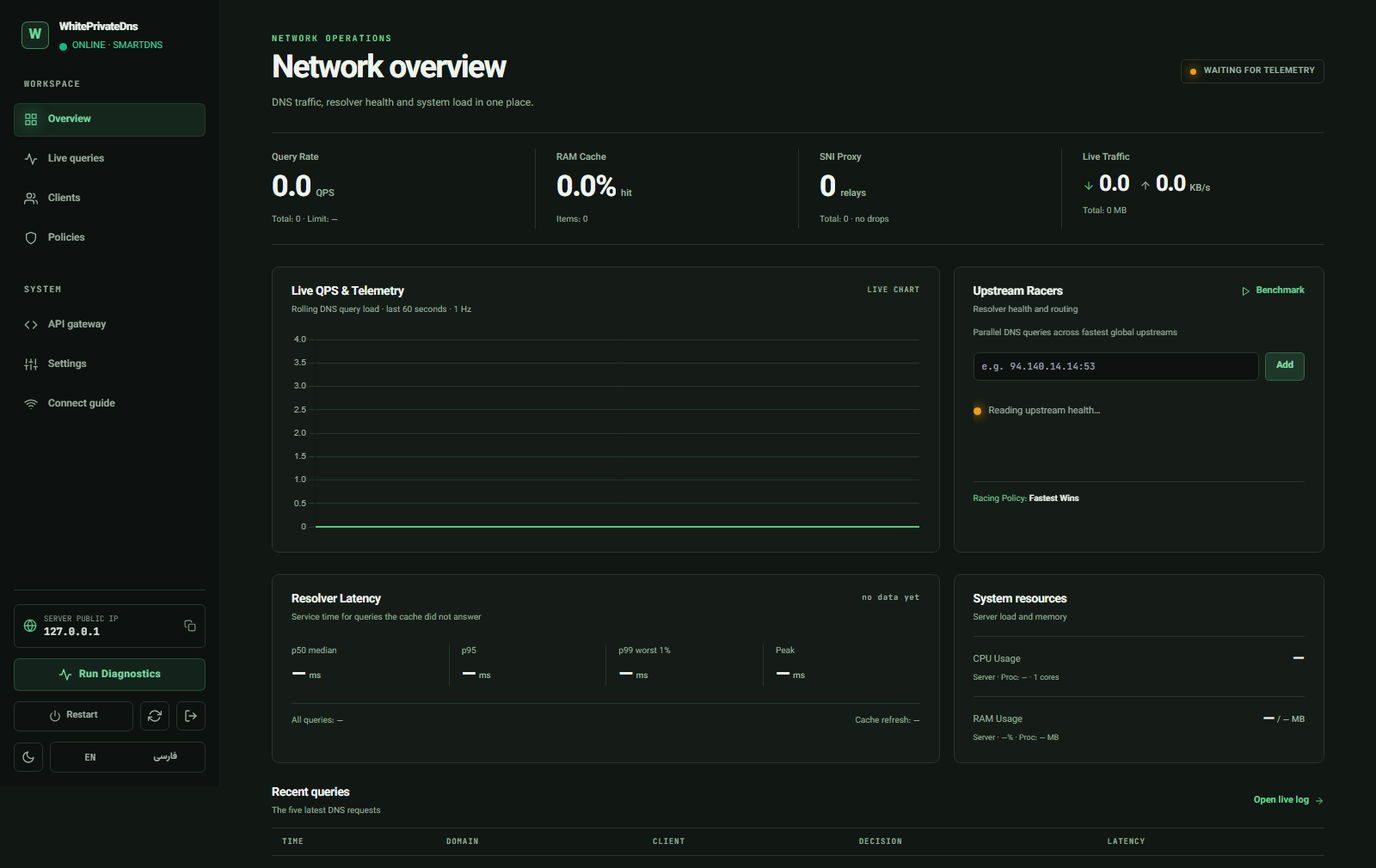
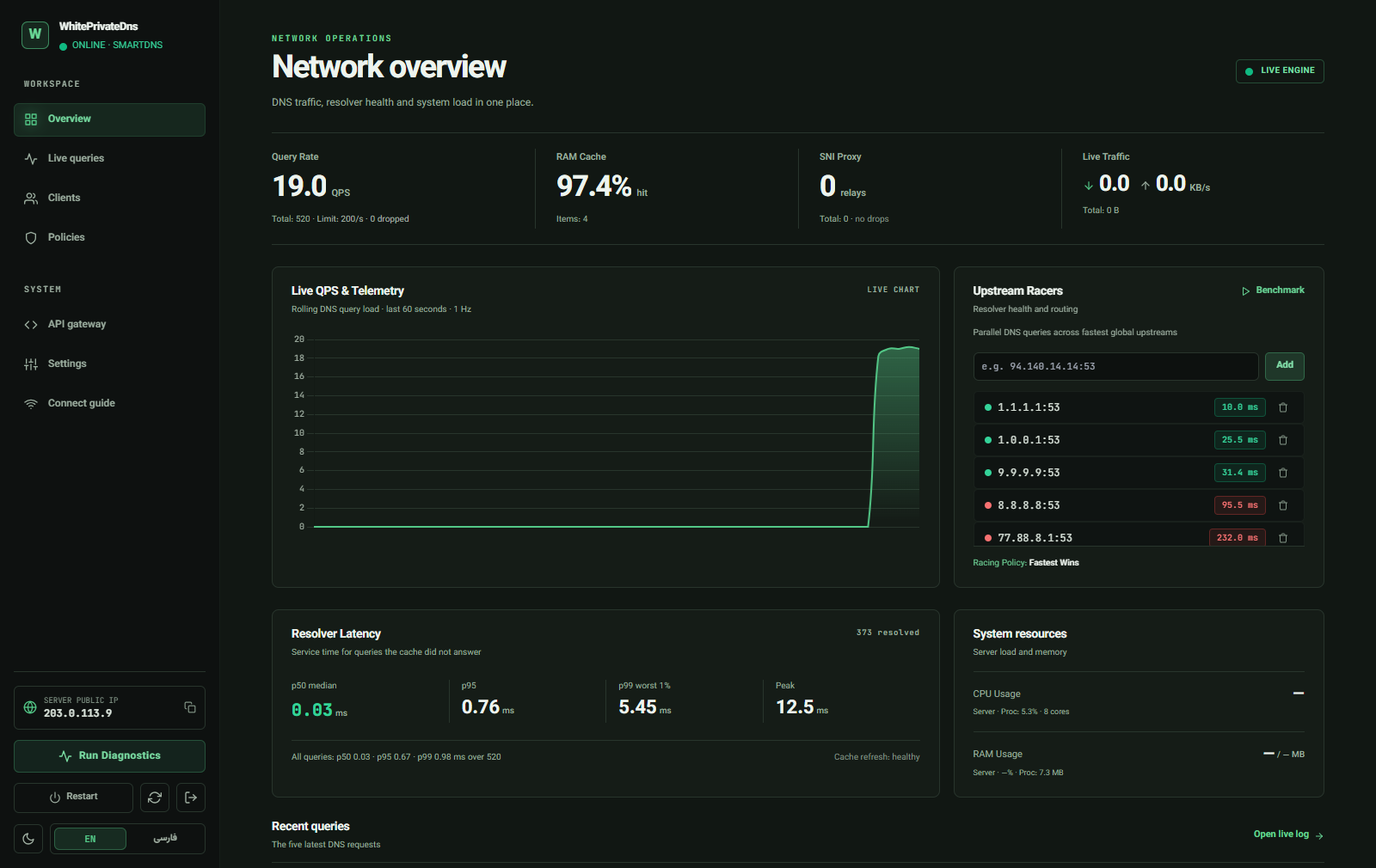
docs: fix README inaccuracies, refresh dashboard screenshot, document updates
- Screenshot: replace the empty "waiting for telemetry" image with the
  dashboard under load; add an update-banner screenshot.
- Fix TUI lockout entry ([12] -> [13]) in README, SECURITY.md and API.md.
- Cache is not an LRU (it evicts the entry nearest expiry).
- Drop claims that were stale or unverifiable (20/20 race packages, tracked
  .idea/ notes).
- Docker: document the unprivileged user and one-time chown.
- Relay: document the separate handshake cap and self-address refusal.
- Document dashboard update notifications (EN + FA), lockout /64 folding.
- Sync README.fa.md with README.md (badge, install tag, build flags, docs table).

diff --git a/README.fa.md b/README.fa.md
@@ -1,7 +1,7 @@
 # ⚡ WhitePrivateDns — گیتوی گیمینگ و اسمارت دیاناس مستقل
 
 <p align="center">
-  <img src="https://img.shields.io/badge/Release-v2.2.0-00f0ff?style=for-the-badge&logo=rocket" alt="نسخه v2.2.0">
+  <img src="https://img.shields.io/badge/Release-v2.2.0--beta.5-00f0ff?style=for-the-badge&logo=rocket" alt="نسخه v2.2.0-beta.5">
   <img src="https://img.shields.io/badge/Status-Production--Ready%20Beta-amber?style=for-the-badge" alt="وضعیت">
   <img src="https://img.shields.io/badge/Language-Go%201.26-00ADD8?style=for-the-badge&logo=go" alt="Go 1.26">
   <img src="https://img.shields.io/badge/Architecture-Single%20Binary%20(Zero%20CGO)-a855f7?style=for-the-badge" alt="تکباینری بدون CGO">
@@ -12,6 +12,8 @@
 
 <p align="center">
   <img src="docs/whiteprivatedns-dashboard-2026.png" alt="نمای کلی شبکهٔ WhitePrivateDns — تلهمتری زنده، وضعیت ریزالورها و نمودار QPS" width="880">
+  <br>
+  <sub>داشبورد زیر بار: نرخ کوئری، نسبت برخورد کش، تأخیر آپاستریمها و صدکهای ریزالور.</sub>
 </p>
 
 > [!NOTE]
@@ -41,6 +43,8 @@
 | ---: | --- |
 | **[README.md](README.md)** | مستندات اصلی پروژه به زبان انگلیسی. |
 | **[docs/SECURITY.md](docs/SECURITY.md)** | مدل تهدیدات امنیتی، جزئیات رمزنگاری، چکلیست سختسازی و تطبیق با RFCها. **پیش از اتصال سرور به اینترنت عمومی حتماً مطالعه شود.** |
+| **[docs/INSTALL.fa.md](docs/INSTALL.fa.md)** | نصب روی همهٔ سیستمعاملهای پشتیبانیشده (لینوکس، ویندوز، macOS). |
+| **[docs/UPDATE.fa.md](docs/UPDATE.fa.md)** | بهروزرسانی نصب موجود، از داشبورد یا خط فرمان. |
 | **[docs/API.md](docs/API.md)** | مرجع کامل REST API v1 (قدیمی) و v2، با نمونهکد برای Python، Node.js و cURL. |
 | **[docs/PRESET_CATALOG.md](docs/PRESET_CATALOG.md)** | کاتالوگ جامع بیش از ۱۷۱ بازی، پلتفرم و سرویس، تفکیکشده بر اساس دستهبندی. |
 | **[docs/CHANGELOG.md](docs/CHANGELOG.md)** | تاریخچهٔ کامل انتشار نسخهها و باگهای رفعشده. |
@@ -104,7 +108,7 @@ python3 scripts/network_probe.py --dns-ip 203.0.113.10 \
 
 ## 🚀 نصب سریع و راهاندازی
 
-اگر WhitePrivateDns از قبل روی سرور لینوکسی نصب است، از [راهنمای بهروزرسانی بدون حذف داده](docs/UPDATE.fa.md) استفاده کنید. دستورهای نصاب زیر برای نصب تازهاند.
+اگر WhitePrivateDns از قبل روی سرور لینوکسی نصب است، داشبورد هنگام انتشار نسخهٔ جدید به شما اطلاع میدهد و میتواند با یک کلیک آن را نصب کند — [راهنمای بهروزرسانی بدون حذف داده](docs/UPDATE.fa.md) را ببینید. دستورهای نصاب زیر برای نصب تازهاند.
 
 ### روش ۱: نصب سرویس لینوکس از نسخهٔ آماده، بدون Go یا کلون کردن پروژه
 
@@ -114,8 +118,8 @@ python3 scripts/network_probe.py --dns-ip 203.0.113.10 \
 
 ```bash
 apt-get update && apt-get install -y ca-certificates curl openssl
-curl -fsSLo /tmp/whiteprivatedns-install.sh https://raw.githubusercontent.com/DarkPoesidon/WhitePrivateDns/v2.2.0-beta.4/scripts/install.sh
-env WHITEPRIVATEDNS_REPOSITORY=DarkPoesidon/WhitePrivateDns WHITEPRIVATEDNS_REF=v2.2.0-beta.4 bash /tmp/whiteprivatedns-install.sh
+curl -fsSLo /tmp/whiteprivatedns-install.sh https://raw.githubusercontent.com/DarkPoesidon/WhitePrivateDns/v2.2.0-beta.5/scripts/install.sh
+env WHITEPRIVATEDNS_REPOSITORY=DarkPoesidon/WhitePrivateDns WHITEPRIVATEDNS_REF=v2.2.0-beta.5 bash /tmp/whiteprivatedns-install.sh
 ```
 
 </div>
@@ -142,7 +146,7 @@ env WHITEPRIVATEDNS_REPOSITORY=DarkPoesidon/WhitePrivateDns WHITEPRIVATEDNS_REF=
 git clone https://github.com/DarkPoesidon/WhitePrivateDns.git
 cd WhitePrivateDns
 mkdir -p bin
-go build -trimpath -o bin/whiteprivatedns ./cmd/whiteprivatedns
+go build -trimpath -ldflags="-s -w" -o bin/whiteprivatedns ./cmd/whiteprivatedns
 ./bin/whiteprivatedns -version
 ```
 
@@ -162,6 +166,16 @@ docker compose up -d
 </div>
 
 پیش از اولین اجرای کانتینر، دایرکتوریهای `data/` و `certs/` را ایجاد کنید. تمام دادههایی که باید در بازسازیهای کانتینر باقی بمانند درون پوشهٔ `data/` قرار دارند — یعنی `data.db`، `master.key` و `config.json` — و کانتینر به هر سه مسیر بهطور صریح ارجاع میدهد، بنابراین با آپدیت ایمیج هیچگاه اطلاعات پایگاه داده از بین نخواهد رفت. وجود فایل `config.json` اختیاری است: میتوانید یک فایل اولیه در آن قرار دهید یا اجازه دهید دیمن در اجرای اول پیکربندی پیشفرض را بسازد.
+
+کانتینر با کاربر بدون دسترسی ویژه (uid/gid برابر `10001`) و فقط با قابلیت `NET_BIND_SERVICE` اجرا میشود؛ همین قابلیت اجازهٔ bind روی پورتهای ۵۳، ۸۰، ۴۴۳ و ۸۵۳ را میدهد. پوشههای متصلشده باید برای همین کاربر قابل نوشتن باشند؛ بنابراین در نصب تازه — و یک بار هنگام ارتقا از ایمیجی که با root اجرا میشد — این دستور را اجرا کنید:
+
+<div dir="ltr">
+
+```bash
+sudo chown -R 10001:10001 data certs
+```
+
+</div>
 
 کانتینر به صورت عمدی و هدفمند با حالت `network_mode: host` اجرا میشود. وجود یک پرش NAT روی تکتک دیتاگرامهای UDP تأخیر مضاعفی به کوئریهایی که بازی را آغاز میکنند تحمیل میکند؛ علاوه بر این دیمن باید آیپی واقعی کلاینت را دریافت کند — سیستم شناسایی مشترک، محدودیت نرخ بر اساس منبع و لیست سفید دسترسی همگی به آیپی وابسته هستند. در صورتی که داکر از پراکسی پیشفرض Bridge استفاده کند، تمام درخواستها با آیپی پل داخلی وارد میشوند؛ در نتیجه ترافیک سنگین یک کاربر باعث اعمال محدودیت بر کل شبکه شده و تمام مشترکین یک کاربر واحد به نظر خواهند رسید.
 
@@ -184,7 +198,8 @@ docker compose up -d
 - رلهٔ ترافیک در لایه ۴ روی TCP بدون خاتمه دادن به نشست SSL (بدون SSL Termination): ارتباط TLS بهصورت سرتاسری بین کاربر و سرور اصلی باقی میماند و WhitePrivateDns هرگز کلیدهای رمزنگاری آن را در اختیار ندارد.
 - قطعهقطعهسازی بستهٔ ClientHello در TLS برای دور زدن فیلترینگ عمیق بستهها (Anti-DPI)، فعال بهصورت پیشفرض (`enable_fragmentation`، با قابلیت تنظیم اندازهٔ قطعات و تأخیر بین ارسال آنها).
 - استخر بافر ۳۲ کیلوبایتی با `sync.Pool` تا هیچ اتصالی حافظهٔ اضافی به خود اختصاص ندهد — دادهها در فضای کاربری کپی میشوند و هر جهت اتصال دارای مهلت بیفعالیتی (Inactivity Deadline) است که با عبور هر بسته تمدید میشود؛ بنابراین اتصالات نیمهباز (Half-Open) بلافاصله پاکسازی شده و منابع سرور قفل نمیمانند.
-- ظرفیت پذیرش حداکثر ۴۰۹۶ اتصال رلهٔ همزمان؛ اتصالات فراتر از این سقف مستقیماً رد میشوند و در صف انتظار نمیمانند تا هجوم ترافیک منجر به اشغال کامل حافظه نشود.
+- ظرفیت پذیرش حداکثر ۴۰۹۶ اتصال رلهٔ همزمان؛ اتصالات فراتر از این سقف مستقیماً رد میشوند و در صف انتظار نمیمانند تا هجوم ترافیک منجر به اشغال کامل حافظه نشود. اتصالهایی که هنوز مقصد خود را اعلام نکردهاند سقف جداگانه (۲۰۴۸) دارند و به محض خوانده شدن SNI یا هدر `Host` جایگاه خود را آزاد میکنند؛ بنابراین اتصالهای ساکت نمیتوانند رلههای در حال اجرا را گرسنه کنند.
+- مقصدی که به آدرس خصوصی، loopback یا link-local — یا به آیپی عمومی خود همین سرور — resolve شود رد میشود؛ رله را نمیتوان به سمت داخل شبکه نشانه رفت.
 
 ### 👤 ۳. مدیریت مشترکین و همگامسازی آیپی با یک کلیک
 - **دو آدرس مجزا، برای دو وظیفهٔ مشخص:** آدرس `/sub/{token}` **پورتال اختصاصی** مشترک است — نمایی فقطخواندنی (Read-Only) از پلن، حجم باقیمانده و آیپی شناساییشده، که در اختیار گذاشتن آن کاملاً امن است زیرا افشای این لینک نمیتواند آیپی ثبتشده را جابهجا کند. آدرس `/ip/{token}` برای **API ثبت آیپی** به کار میرود: ارسال درخواست `POST` به همراه رمز ثبت ۹۶ بیتی حساب (بدون نیاز به ارسال فیلد `ip` تا آیپی خود متقاضی ست شود — فرایند ۱ کلیکی)؛ یک درخواست سادهٔ `GET` به این مسیر نیز صفحهٔ راهنمای دوزبانه را برای بوکمارکهای قدیمی نمایش میدهد.
@@ -271,7 +286,7 @@ POST /api/v1/policies {"key":"enable_downloads","enabled":true}
 - **احراز هویت دومرحلهای (2FA)** — بر پایهٔ پروتکل RFC 6238 TOTP. از بخش تنظیمات → *Two-Factor Authentication* ثبتنام کنید: کلید سکرت فقط یک بار نمایش داده میشود، با وارد کردن یک کد اعتبارسنجی تأیید میگردد و از آن پس ورود به پنل (و هرگونه تغییر رمز یا کلید API) نیازمند کد لحظهای خواهد بود. غیرفعالسازی نیز نیازمند تأیید نهایی با هر دو فاکتور است.
 - **پروتکل LDAP** — احراز هویت اپراتورها با Active Directory یا OpenLDAP (از طریق پروتکل امن `ldaps://` اعتبارسنجیشده با مخزن گواهیهای سیستم، جریان bind/search/bind و تایماوت ۵ ثانیه). حالتها: فقط محلی، فقط LDAP، یا LDAP همراه با جایگزین (Fallback) محلی.
 - **پنجرهٔ زمان بیکاری نشست (Session Idle Window)** — ابطال نشست داشبورد پس از N دقیقه عدم فعالیت (از ۵ تا ۱۴۴۰ دقیقه، پیشفرض ۱۵ دقیقه). بلافاصله پس از ذخیره اعمال میشود؛ سقف مطلق ۲۴ ساعته نیز دستنخورده باقی میماند.
-- **قفل ورود در برابر حملات Brute-Force** — ثبت ۳ ورود ناموفق از یک آدرس، آن را به مدت ۱۰ دقیقه مسدود میسازد. رفع قفل بدون نیاز به ریاستارت از گزینهٔ `[13]` در منوی TUI یا ارسال درخواست `POST /api/auth/unlock` (با نشست فعال یا کلید API، بههمراه کد TOTP در صورت فعال بودن 2FA) امکانپذیر است.
+- **قفل ورود در برابر حملات Brute-Force** — ثبت ۳ ورود ناموفق از یک آدرس، آن را به مدت ۱۰ دقیقه مسدود میسازد (آدرس IPv6 با کل /64 خود یکی شمرده میشود، پس تعویض آدرس درون یک prefix فایدهای ندارد). رفع قفل بدون نیاز به ریاستارت از گزینهٔ `[13]` در منوی TUI یا ارسال درخواست `POST /api/auth/unlock` (با نشست فعال یا کلید API، بههمراه کد TOTP در صورت فعال بودن 2FA) امکانپذیر است.
 - **شخصیسازی پورتال مشترکین** — صفحات اختصاصی کاربران (`/sub/<token>`، `/ip/<token>` و شنوندهٔ اختصاصی در صورت تعریف پورت) بر اساس طراحی سیستم عمومی میمانند؛ بخش تنظیمات عنوان صفحه، دامنه و پورت نمایشدادهشده در لینکها و فایل CSS سفارشی را مدیریت میکند (کدهای استایل پیش از ارسال به مرورگر کاربر کاملاً پاکسازی میشوند: مسدودسازی دستورات `@import`، پیوندهای خارجی `url()` و اسکریپتها).
 
 برای بررسی مدل کامل تهدیدات، فهرست دقیق فیلدهای رمزنگاریشده و فرایند گزارش آسیبپذیریها، سند **[SECURITY.md](docs/SECURITY.md)** را مطالعه کنید.
@@ -332,7 +347,14 @@ https://<domain>/<admin-path>/login
 - **مدیریت کاربران و لیست سفید:** افزودن و ویرایش کلاینتها، تعیین آیپی مجاز، تنظیم محدودیتهای ترافیکی، مشاهده و بازتولید **رمز ثبت آیپی** و دریافت کارت آمادهٔ فارسی برای تلگرام.
 - **پالیسیهای گیمینگ:** سوییچهای ۱ کلیکی برای فعالسازی تکتک دستههای بازی، بههمراه دامنههای سفارشی پراکسیشده یا مسدودشده، توکنهای DoH و رکوردهای استاتیک DNS.
 - **استریم زندهٔ ترافیک:** نمایش لحظهای کوئریهای DNS بر بستر استریم Server-Sent Events (SSE).
+- **اعلان بهروزرسانی:** دیمن هنگام راهاندازی و هر شش ساعت، نسخههای GitHub را بررسی میکند. وقتی نسخهٔ جدیدی باشد بنری همراه یادداشت انتشار نشان داده میشود؛ دکمهٔ **Update now** رمز عبور شما (و کد 2FA در صورت فعال بودن) را میخواهد، اسکریپت بهروزرسانی همان نسخه را میگیرد، با SHA-256 فهرست Release تطبیق میدهد و اجرا میکند — با پشتیبانگیری، راهاندازی مجدد و بازگردانی خودکار. روی نصب استاندارد لینوکس/systemd کار میکند؛ در چیدمانهای دیگر فقط اعلان نشان داده میشود. با `WHITEPRIVATEDNS_UPDATE_CHECK=0` غیرفعال میشود. جزئیات: [docs/UPDATE.fa.md](docs/UPDATE.fa.md).
 - **تنظیمات و گواهی SSL:** مدیریت پورتال مشترکین (عنوان، دامنه، پورت)، ورود دومرحلهای، احراز هویت LDAP، پنجرهٔ زمان بیکاری نشست، مسیر مخفی مدیریت، وضعیت گواهیهای SSL و گیتوی REST API (کلید اصلی، وضعیت انتشار عمومی و نمونهکدهای آماده).
+
+<p align="center">
+  <img src="docs/whiteprivatedns-update-banner.png" alt="بنر بهروزرسانی داشبورد: نسخهٔ جدیدتر موجود است، با گزینههای تغییرات جدید، Update now و Later" width="760">
+  <br>
+  <sub>بنر بهروزرسانی (نمونهٔ توضیحی: فقط وقتی نشان داده میشود که در GitHub نسخهٔ جدیدتری باشد).</sub>
+</p>
 
 ---
 
@@ -353,7 +375,7 @@ WhitePrivateDns یک REST API استاندارد جهت اتصال رباته
 هر کوئری ورودی از چهار لایهٔ متوالی عبور میکند:
 
 ۱. **کنترل دسترسی (Access Control)** — متد `IsIPAllowed(clientIP)` صرفاً یک خواندن از حافظهٔ Map تحت محافظت قفل خواندن/نوشتن `sync.RWMutex` است. چهار ایندکس داخلی (`idMap`, `ipMap`, `tokenMap`, `uuidMap`) هنگام تغییرات از دیتابیس BoltDB بازسازی میشوند و هنگام ثبت آیپی جدید کاربر، تنها همان یک رکورد بهروزرسانی میگردد؛ بنابراین فراخوانی عمومی اندپوینت `/ip/{token}` هیچگاه باعث اسکن کامل دیتابیس نمیشود. در صورتی که گزینهٔ `access.allow_all: true` باشد، آدرسی که در ایندکس نباشد به جای رد شدن تحت عنوان `Public` ناشناس سرویس میگیرد — هشدار بخش [سختسازی امنیتی](#-سختسازی-پیش-از-اولین-استفاده) را ببینید.
-۲. **حافظهٔ موقت (Cache)** — یک ساختار LRU با ۶۴ شارد مجزا بر پایهٔ کلید سهگانهٔ Name+Type+Class. در صورت یافت شدن (Hit)، یک *کپی* از پیام ذخیرهشده بازگردانده میشود، زیرا تابع فراخوان باید شناسهٔ تراکنش (Transaction ID) را بازنویسی کرده و زمانهای TTL را کاهش دهد.
+۲. **حافظهٔ موقت (Cache)** — یک کش با ۶۴ شارد مجزا بر پایهٔ کلید سهگانهٔ Name+Type+Class که هنگام پر شدن هر شارد، نزدیکترین ورودی به انقضا را حذف میکند. در صورت یافت شدن (Hit)، یک *کپی* از پیام ذخیرهشده بازگردانده میشود، زیرا تابع فراخوان باید شناسهٔ تراکنش (Transaction ID) را بازنویسی کرده و زمانهای TTL را کاهش دهد.
 ۳. **تطبیق قوانین (Policy Match)** — یک نگاشت تطبیق دقیق به همراه شاخص الگوهای عمومی (Wildcard) بر پایهٔ قاعدهٔ «طولانیترین پسوند برنده است» روی بیش از ۱۷۱ پریست و قوانین سفارشی کلاینتها یا قوانین سراسری ادمین. بر این اساس میتوان برای مثال `cdn.example.com` را مستقل از `*.example.com` مسیردهی کرد.
 ۴. **اقدام (Action)** — در حالت `proxy`، پاسخ DNS به آیپی همین سرور جعل (Spoof) میشود تا پراکسی شفاف SNI اتصال را به دست بگیرد؛ در حالت `direct`، بین آپاستریمهای تنظیمشده مسابقه گذاشته شده و پاسخ اصلی دستنخورده به کلاینت تحویل میگردد؛ در حالت `block`، دامنه سینکهول (مسدود) میشود.
 
@@ -385,10 +407,10 @@ WhitePrivateDns یک REST API استاندارد جهت اتصال رباته
 
 | بعد کیفی | امتیاز | مبنای ارزیابی و شواهد فنی |
 | :---: | :---: | :--- |
-| 🔐 **امنیت (Security)** | **۹۳ / ۱۰۰** | سه دور ممیزی کامل امنیتی با سازوکار Mantis بههمراه آزمون راستیآزمایی اصلاحات — **بیش از ۵۰ یافتهٔ امنیتی که تکتک آنها با آزمون رگرسیون اختصاصی بسته شدهاند** (محدودسازی دسترسی master-key، یکبارمصرف بودن توکنهای TOTP، ایزولاسیون LDAP، محدودسازی DoH، جلوگیری از تداخل پورتها و نصاب ایمن). آزمون شبیهسازی مهاجم خارجی مشابه مدل T3MP3ST روی سرور فعال تمامی سازوکارهای دفاعی را استوار نشان داد و تنها یک مورد با درجه ریسک LOW گزارش شد که در همان مرحله برطرف گردید. تست همزمانی (Race Detector): تست روی تمامی ۲۰ پکیج با نتیجهٔ صفر race. موارد کسر امتیاز: باقی ماندن امکان تبدیل به ریزالور باز با یک سوییچ (عدم منع به عنوان تصمیم مستند)، عدم وجود لایهٔ WAF یا فیلتر حملات حجمی DDoS (وظیفهٔ ارائهدهندهٔ ابری)، مسیر ادمین به عنوان لایهٔ دفاع در عمق محسوب میشود. |
+| 🔐 **امنیت (Security)** | **۹۳ / ۱۰۰** | سه دور ممیزی کامل امنیتی با سازوکار Mantis بههمراه آزمون راستیآزمایی اصلاحات — **بیش از ۵۰ یافتهٔ امنیتی که تکتک آنها با آزمون رگرسیون اختصاصی بسته شدهاند** (محدودسازی دسترسی master-key، یکبارمصرف بودن توکنهای TOTP، ایزولاسیون LDAP، محدودسازی DoH، جلوگیری از تداخل پورتها و نصاب ایمن). آزمون شبیهسازی مهاجم خارجی مشابه مدل T3MP3ST روی سرور فعال تمامی سازوکارهای دفاعی را استوار نشان داد و تنها یک مورد با درجه ریسک LOW گزارش شد که در همان مرحله برطرف گردید. در CI، کل مجموعه تستها روی هر push با Race Detector اجرا میشود. موارد کسر امتیاز: باقی ماندن امکان تبدیل به ریزالور باز با یک سوییچ (عدم منع به عنوان تصمیم مستند)، عدم وجود لایهٔ WAF یا فیلتر حملات حجمی DDoS (وظیفهٔ ارائهدهندهٔ ابری)، مسیر ادمین به عنوان لایهٔ دفاع در عمق محسوب میشود. |
 | ⚡ **کارایی (Performance)** | **۹۰ / ۱۰۰** | مسیرهای پرتردد همگی عملیاتهای نانوثانیهای بدون تخصیص حافظه هستند (جستوجوی کاربر ~۱۷ نانوثانیه، تطبیق دقیق قوانین ~۵۲ نانوثانیه، پاسخ کش ~۲۵۸ نانوثانیه — اثباتشده با بنچمارک)، کش دارای ۶۴ شارد مجزا، پشتیبانی کامل DoT از حفظ اتصالات بیکار (RFC 7828) بهجای تکرار هندشیک، بافرهای رله بر پایهٔ `sync.Pool` و کل پروژه یک فایل باینری بدون CGO است. موارد کسر امتیاز: ایندکس مشترکین پشت یک قفل مشترک RWMutex قرار دارد و با تعداد هستهها مقیاسپذیری ندارد، ارقام تأخیر سرتاسری روی بستر سیم منتشر نشده است، گزارشهای نسخهٔ ۱.۲.۰ (درگیری ۱۰۰٪ پردازنده و نشت حافظه) هرچند کاملاً برطرف شدهاند اما یادآوری آنها مانع از ثبت امتیاز ۹۵ شد. |
 | 🔎 **سئو و وب (SEO)** | **۷۰ / ۱۰۰** | رویکردی کاملاً شفاف و آگاهانه: صفحهٔ لندینگ عمومی **بهصورت هدفمند** هدر `noindex, nofollow` ارسال میکند — صفحهٔ فرود یک ریزالور اختصاصی نباید در موتورهای جستوجو رتبه بگیرد، و پورتال مشترکین نیز هدر `Vary` بر اساس درخواست ارسال میکند تا هیچ کشی صفحهٔ یک مشترک را به دیگری تحویل ندهد. الزامات ساختاری گوگل کاملاً رعایت شده است: تگ واقعی `<title>`، استفاده از تنها یک تگ `<h1>`، متاتگ viewport، ساختار معنایی HTML و طراحی واکنشگرای موبایلمحور. موارد کسر امتیاز: نداشتن sitemap، تگهای Open Graph و دادههای ساختاریافته، و نبود محتوای ایندکسپذیر — زیرا این سامانه یک وبسایت محتوایی نیست. |
-| 🧹 **بهداشت کد (Code Hygiene)** | **۹۵ / ۱۰۰** | تأیید کامل استانداردهای gofmt و go vet روی تمامی ۲۰ پکیج، بررسی خودکار سینتکس فایلهای JS/Python/Shell، تست یکپارچگی نشانهگذاری با کدهای جاوااسکریپت جهت جلوگیری از ارجاع به المانهای ناموجود DOM، انضباط کامل در ثبت CHANGELOG و حفظ همخوانی بایتبهبایت در پکیج آفلاین. مورد کسر امتیاز: نگهداری یادداشتهای خصوصی برنامهریزی در پوشهٔ `.idea/` — این فایلها باید از مخزن عمومی حذف شوند. |
+| 🧹 **بهداشت کد (Code Hygiene)** | **۹۵ / ۱۰۰** | اجباری بودن gofmt و go vet روی همهٔ پکیجها در CI، بررسی خودکار سینتکس فایلهای JS/Python/Shell، تست یکپارچگی نشانهگذاری با کدهای جاوااسکریپت جهت جلوگیری از ارجاع به المانهای ناموجود DOM، انضباط کامل در ثبت CHANGELOG و حفظ همخوانی بایتبهبایت در پکیج آفلاین. |
 
 ---
 

diff --git a/README.md b/README.md
@@ -12,6 +12,8 @@
 
 <p align="center">
   <img src="docs/whiteprivatedns-dashboard-2026.png" alt="WhitePrivateDns network overview — live telemetry, resolver status and QPS chart" width="880">
+  <br>
+  <sub>The dashboard under load: query rate, cache hit ratio, upstream latency and resolver percentiles.</sub>
 </p>
 
 > [!NOTE]
@@ -39,6 +41,8 @@
 | :--- | :--- |
 | **[docs/TUTORIAL.md](docs/TUTORIAL.md)** | Step-by-step walkthrough: first boot, custom domain for the subscriber portal, adding clients, issuing registration tokens. **Start here.** |
 | **[SECURITY.md](docs/SECURITY.md)** | Threat model, encryption specifics, hardening checklist, RFC compliance, vulnerability reporting. **Read before exposing the install.** |
+| **[docs/INSTALL.md](docs/INSTALL.md)** | Installation on every supported platform (Linux, Windows, macOS). |
+| **[docs/UPDATE.md](docs/UPDATE.md)** | Updating an existing install, from the dashboard or the command line. |
 | **[API.md](docs/API.md)** | REST API v1 (deprecated) and v2, with Python / Node.js / cURL samples. |
 | **[docs/PRESET_CATALOG.md](docs/PRESET_CATALOG.md)** | The full 171+ preset catalog, by category. |
 | **[CHANGELOG.md](docs/CHANGELOG.md)** | Release history and the fix behind each one. |
@@ -133,7 +137,7 @@ The CDN or Tunnel route must already work; saving a URL does not create it.
 
 ## 🚀 Quick Installation & Deployment
 
-Already running WhitePrivateDns on Linux? Use the [in-place update guide](docs/UPDATE.md). It keeps your accounts, configuration, keys, and certificates. The installer below creates a fresh installation.
+Already running WhitePrivateDns on Linux? The dashboard tells you when a new release is out and can install it with one click — see [Updating](docs/UPDATE.md). It keeps your accounts, configuration, keys, and certificates. The installer below creates a fresh installation.
 
 ### Option 1: Install the Linux service from a release (no Go or checkout)
 
@@ -164,7 +168,7 @@ Install Go 1.26.4 or newer and Git first, then clone the repository:
 git clone https://github.com/DarkPoesidon/WhitePrivateDns.git
 cd WhitePrivateDns
 mkdir -p bin
-go build -ldflags="-s -w" -o bin/whiteprivatedns ./cmd/whiteprivatedns
+go build -trimpath -ldflags="-s -w" -o bin/whiteprivatedns ./cmd/whiteprivatedns
 ./bin/whiteprivatedns -version
 ```
 
@@ -179,6 +183,12 @@ docker compose up -d
 Dashboard source is kept in `web/src/`. After changing a fragment, run `node tools/build-web-assets.mjs` to regenerate the embedded HTML, CSS and JavaScript. CI checks that the generated files are current.
 
 Create `data/` and `certs/` before the first `up`. Everything that has to survive a rebuild lives in `data/` — `data.db`, `master.key` and `config.json` — and the container names all three paths explicitly, so an image update never comes back to an empty database. `config.json` is optional: drop one in to seed the first run, or leave the directory empty and let the daemon generate its own.
+
+The container runs as an unprivileged user (uid/gid `10001`) with only the `NET_BIND_SERVICE` capability, which is what lets it bind ports 53, 80, 443 and 853. The bind-mounted folders must be writable by that user, so on a fresh checkout — and once when upgrading from an image that ran as root — run:
+
+```bash
+sudo chown -R 10001:10001 data certs
+```
 
 The container runs with `network_mode: host` on purpose. A NAT hop on every UDP datagram is latency added to the query that starts a game, and the daemon has to see the real client address — subscriber recognition, the per-source rate limit and the access list all key on it. Behind Docker's userland proxy every query would arrive from the bridge address, so one client's flood would rate-limit the whole subnet and every subscriber would look like the same subscriber.
 
@@ -201,7 +211,8 @@ The container runs with `network_mode: host` on purpose. A NAT hop on every UDP 
 - Layer-4 TCP relaying without SSL termination: the TLS session stays end-to-end between the client and the origin, and WhitePrivateDns never holds the keys for it.
 - Anti-DPI TLS ClientHello fragmentation, on by default (`enable_fragmentation`, with a configurable chunk size and inter-chunk delay).
 - A `sync.Pool` of 32 KB buffers, so a relayed connection does not allocate its own — the payload is still copied through user space, and each direction carries an inactivity deadline that is refreshed per chunk so half-open connections are reaped instead of pinned.
-- Up to 4096 concurrent relays; beyond that new connections are rejected rather than queued, which keeps a flood from exhausting memory.
+- Up to 4096 concurrent relays; beyond that new connections are rejected rather than queued, which keeps a flood from exhausting memory. Connections that have not yet named a destination are capped separately (2048) and release their slot as soon as the SNI or `Host` header is read, so silent connections cannot starve relays that are already running.
+- A target that resolves to a private, loopback or link-local address, or back to this server's own public IP, is refused — the relay cannot be aimed inward.
 
 ### 👤 3. Subscriber Management & 1-Click IP Sync
 - **Two addresses, two jobs.** `/sub/{token}` is the subscriber's **portal** — a
@@ -317,7 +328,7 @@ Optional hardening on top, all in Settings:
 - **Two-Factor Authentication** — RFC 6238 TOTP. Enroll from Settings → *Two-Factor Authentication*: the secret is shown exactly once, one code confirms it, and from then on logins (plus every password/API-key change) require a current code. Disabling demands both factors one last time.
 - **LDAP** — authenticate operators against Active Directory/OpenLDAP (`ldaps://` verified against the system certificate store, bind/search/bind flow, 5-second timeout). Modes: local only, LDAP only, or LDAP with local fallback.
 - **Session idle window** — revoke a dashboard session after N minutes without use (5–1440, default 15). Applies live on save; the 24-hour absolute ceiling is unchanged.
-- **Login lockouts** — 3 failures from one address locks it for 10 minutes. Clear it without a restart from TUI entry `[12]` or `POST /api/auth/unlock` (session or API key, plus a TOTP code when 2FA is on).
+- **Login lockouts** — 3 failures from one address locks it for 10 minutes (an IPv6 address counts as its whole /64, so rotating addresses inside one prefix does not help). Clear it without a restart from TUI entry `[13]` or `POST /api/auth/unlock` (session or API key, plus a TOTP code when 2FA is on).
 - **Subscription Portal** — the subscriber pages (`/sub/<token>`, `/ip/<token>`, and the dedicated listener if you set a port) stay public by design; Settings controls the title, the domain and port their links advertise, and an optional custom stylesheet that is sanitised (no `@import`, no external `url()`, no script) before it reaches a subscriber's browser.
 
 For the full threat model, the exact list of encrypted fields, and a
@@ -386,10 +397,17 @@ on every start.
 - **Gaming Policies:** 1-click toggles for every preset category, plus custom
   proxied/blocked domains, DoH tokens and static records.
 - **Live Stream:** Real-time Server-Sent Events (SSE) stream of DNS queries.
+- **Update notifications:** the daemon checks GitHub Releases at start-up and every six hours. When a newer version exists a banner appears with the release notes; **Update now** asks for your password (and a 2FA code if enabled), downloads the release's updater, verifies it against the release checksums and runs it — backup, restart and automatic rollback included. Works on the standard Linux/systemd install; other layouts get the notification only. Disable with `WHITEPRIVATEDNS_UPDATE_CHECK=0`. Details: [docs/UPDATE.md](docs/UPDATE.md).
 - **Settings & SSL:** the subscription portal (title, domain, port),
   two-factor authentication, LDAP, session idle window, hidden admin path,
   certificate issuance, and the REST API gateway (master key, exposure toggle,
   integration snippets).
+
+<p align="center">
+  <img src="docs/whiteprivatedns-update-banner.png" alt="Dashboard update banner: a newer release is available, with What's new, Update now and Later" width="760">
+  <br>
+  <sub>The update banner (illustrative: it appears only when GitHub has a newer release).</sub>
+</p>
 
 ---
 
@@ -424,7 +442,7 @@ two versions:
 A query walks four layers, in this order:
 
 1. **Access control** — `IsIPAllowed(clientIP)` is a single map read behind a `sync.RWMutex`. Four indexes (`idMap`, `ipMap`, `tokenMap`, `uuidMap`) are rebuilt from BoltDB on change and re-filed one account at a time on a subscriber IP registration, so the public `/ip/{token}` endpoint never triggers a full rescan. Under `access.allow_all: true` an address that matches no index is served as anonymous `Public` rather than refused — see the warning in [First-Run Hardening](#-first-run-hardening).
-2. **Cache** — a 64-shard LRU keyed by name+type+class. A hit returns a *copy* of the stored message, because the caller has to rewrite the transaction ID and count the TTLs down.
+2. **Cache** — a 64-shard cache keyed by name+type+class, evicting the entry nearest expiry when a shard is full. A hit returns a *copy* of the stored message, because the caller has to rewrite the transaction ID and count the TTLs down.
 3. **Policy match** — an exact-match map plus a longest-suffix wildcard index over the 171+ presets and any per-subscriber or admin-wide custom rules. Longest suffix wins, so `cdn.example.com` can be routed differently from `*.example.com`.
 4. **Action** — `proxy` spoofs the answer to this server so the SNI relay picks the connection up; `direct` races the configured upstreams and forwards the unaltered reply; `block` sinkholes it.
 
@@ -460,10 +478,10 @@ panel that requires authentication has no public page to light up.
 
 | Dimension | Score | Basis |
 | :--- | :---: | :--- |
-| 🔐 **Security** | **93 / 100** | Three full Mantis audit rounds + a fix-verification pass — **50+ findings, every one fixed with a named regression test** (master-key scoping, TOTP single-use, LDAP scoping, DoH surface restriction, port-drift, safe installers). A T3MP3ST-style external-attacker campaign against a live deployment found every headline control holding and produced one LOW, fixed live. Race detector: 20/20 packages, zero races. Deductions: the open-resolver posture remains one toggle away (documented non-goal), no WAF or volumetric DDoS layer (the provider's job), the admin path is defence-in-depth only. |
+| 🔐 **Security** | **93 / 100** | Three full Mantis audit rounds + a fix-verification pass — **50+ findings, every one fixed with a named regression test** (master-key scoping, TOTP single-use, LDAP scoping, DoH surface restriction, port-drift, safe installers). A T3MP3ST-style external-attacker campaign against a live deployment found every headline control holding and produced one LOW, fixed live. CI runs the whole suite under the race detector on every push. Deductions: the open-resolver posture remains one toggle away (documented non-goal), no WAF or volumetric DDoS layer (the provider's job), the admin path is defence-in-depth only. |
 | ⚡ **Performance** | **90 / 100** | The hot paths are allocation-free nanosecond operations (subscriber lookup ~17 ns, exact rule match ~52 ns, cache hit ~258 ns — benchmarked, see Architecture), the cache is 64-shard concurrent, DoT holds idle connections (RFC 7828) instead of re-handshaking, relays draw from a `sync.Pool`, and the whole thing is one zero-CGO binary. Deductions: the subscriber index sits behind one RWMutex and does not scale with cores (documented shape), no published end-to-end wire latency numbers, the v1.2.0-era field reports (CPU pegged, memory leak) are fixed but the memory of them is why this is not a 95. |
 | 🔎 **SEO** | **70 / 100** | Deliberate and honest: the public landing page serves `noindex, nofollow` **by design** — a private resolver's landing page has no business ranking, and the subscriber portal carries per-request `Vary` headers so no cache serves one subscriber's page to another. What Google's guidelines ask for structurally is there: real `<title>`, single `<h1>`, viewport meta, semantic HTML, mobile-first rendering. Deductions: no sitemap, no Open Graph/structured data, no indexable content — because the product is not a content site. Raise the score by removing one meta tag if you want the landing indexed. |
-| 🧹 **Code hygiene** | **95 / 100** | gofmt/go vet clean across 20 packages, JS/Python/shell syntax gates, a markup↔JS consistency test that catches dead DOM lookups, changelog discipline, and an offline-bundle mirror kept byte-identical. Deduction: the tree carries private planning notes in `.idea/` — keep them out of the published repository. |
+| 🧹 **Code hygiene** | **95 / 100** | gofmt and go vet are enforced on every package in CI, with JS/Python/shell syntax gates, a markup↔JS consistency test that catches dead DOM lookups, changelog discipline, and an offline-bundle mirror kept byte-identical. |
 
 ---
 

diff --git a/docs/UPDATE.fa.md b/docs/UPDATE.fa.md
@@ -23,3 +23,19 @@ systemctl status whiteprivatedns --no-pager
 ```
 
 راهنمای کاملتر و روش بازگردانی دستی در [UPDATE.md](UPDATE.md) آمده است. این اسکریپت مخصوص نصبهای Linux با `systemd` روی `amd64` یا `arm64` است.
+
+## بهروزرسانی از داخل داشبورد
+
+دیمن هنگام راهاندازی و هر شش ساعت، نسخههای GitHub Releases را بررسی میکند. وقتی نسخهٔ جدیدتری باشد، بنری بالای داشبورد با تغییر نسخه و پیوند یادداشتهای انتشار نشان داده میشود. نصب پایدار (stable) فقط نسخهٔ پایدار پیشنهاد میگیرد؛ نصب بتا نسخههای بتا را هم میبیند.
+
+با زدن **Update now** و وارد کردن رمز عبور فعلی (و کد 2FA، اگر فعال است):
+
+1. اسکریپت `whiteprivatedns-update.sh` همان نسخه دریافت میشود و فقط اگر SHA-256 آن با `checksums.txt` همان Release بخواند پذیرفته میشود؛
+2. اسکریپت در یک واحد جداگانهٔ systemd به نام `whiteprivatedns-update` اجرا میشود تا با راهاندازی مجدد سرویس از بین نرود؛
+3. اسکریپت از `/opt/whiteprivatedns` پشتیبان میگیرد، باینری را جایگزین میکند، سرویس را دوباره راه میاندازد و اگر نسخهٔ جدید سالم بالا نیاید خودکار به نسخهٔ قبلی برمیگردد.
+
+پس از بازگشت سرویس، پنل خودش به صفحهٔ ورود بارگذاری میشود. اگر مشکلی پیش آمد، گزارش را با `journalctl -u whiteprivatedns-update` ببینید.
+
+بهروزرسانی خودکار فقط برای نصب استاندارد کار میکند: لینوکس، systemd، اجرا با root و باینری در `/opt/whiteprivatedns/whiteprivatedns`. در Docker یا چیدمانهای دیگر اعلان نشان داده میشود ولی دکمه دلیل عدم امکان را توضیح میدهد.
+
+متغیرهای محیطی سرویس: `WHITEPRIVATEDNS_UPDATE_CHECK=0` بررسی GitHub و بنر را خاموش میکند؛ `WHITEPRIVATEDNS_REPOSITORY=owner/repo` یک fork را بهجای مخزن پیشفرض بررسی میکند. این بررسی فقط یک درخواست به `api.github.com` میفرستد و هیچ اطلاعاتی از نصب شما ارسال نمیکند.

diff --git a/docs/SECURITY.md b/docs/SECURITY.md
@@ -154,7 +154,7 @@ They are the reason several classes of issue are "by design" rather than bugs.
   `crypto/rand` entropy and are never derived from anything guessable.
 - **Login lockout**: 3 failures from one address locks it for 10 minutes. The
   operator can clear it without a restart (`POST /api/auth/unlock`, or TUI entry
-  `[12]`), which requires a session or the API key, plus a TOTP code when 2FA is
+  `[13]`), which requires a session or the API key, plus a TOTP code when 2FA is
   on.
 - **TOTP (RFC 6238)** with a proper enrollment flow: the secret is shown once,
   and confirmation requires a code. When enabled, password changes and API-key

diff --git a/docs/API.md b/docs/API.md
@@ -897,7 +897,7 @@ Sorting on `expires_at` as text is exact while the server's clock is UTC, which 
 Clears the per-address login lockouts the panel's brute-force guard recorded. The
 tracker lives in the daemon's memory, so this endpoint is the only way to lift a
 lockout (for example an office NAT that got locked out) without restarting the
-service. The TUI's **[12] Clear Login Lockouts** entry calls exactly this
+service. The TUI's **[13] Clear Login Lockouts** entry calls exactly this
 endpoint over loopback.
 
 - **Method:** `POST` — body `{"code": "123456"}` (the current TOTP code; required
